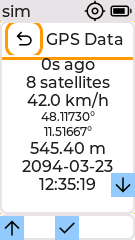
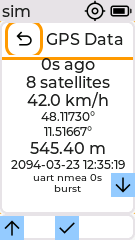
docs(gps): refresh the GPS Data walkthrough screenshot
The walkthrough text now describes two rows the pictured page did not have.
Captured through sim/scripts/docs-screenshots.txt with FURBLE_SIM_NO_TOUCH=1,
so the frame shows the floating navigation indicators the rows have to clear.

Only this page is refreshed. The rest of the committed gallery is stale
repo-wide, it predates the focus outline change among others, so a full
refresh belongs in its own change rather than riding along here.

Changed region(s): [[0.0889, 0.6417, 0.9481, 0.8167]]

diff --git a/plans/164-gps-status-detail.md b/plans/164-gps-status-detail.md
@@ -211,6 +211,11 @@ Implemented and merged as one pull request.
 
 ### Owed
 
+`docs/img/gps-data.png` is refreshed for this page. The rest of the committed
+walkthrough gallery is stale repo-wide, it predates the focus outline change
+among others, so this refreshes only the page this change touches. A gallery
+refresh belongs in its own change.
+
 An on-device look at the page on the M5StickS3. The rows are verified in the
 simulator on all three modeled panels, in both the touch and the non-touch
 layout, and the simulator shares the real UI code. The font 10 rows have still
